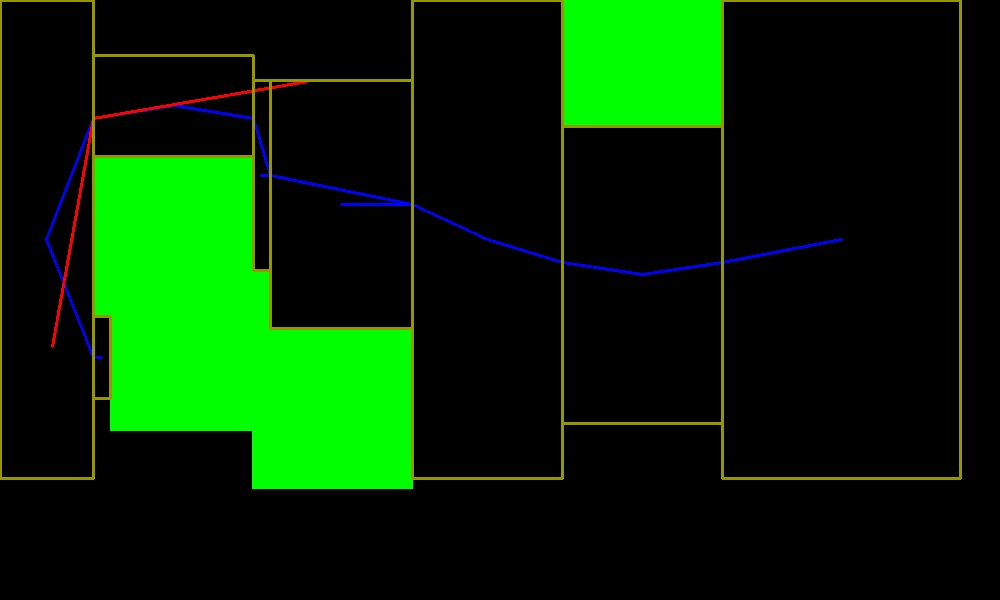
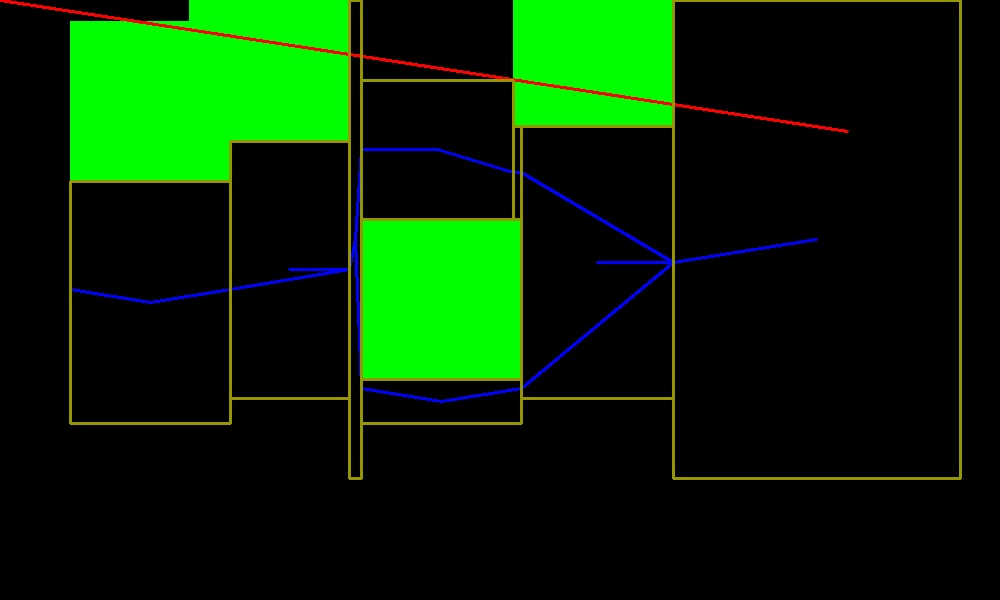
Jai vraiment mal au cul

diff --git a/Client/BaseStation/WorldVision/map.py b/Client/BaseStation/WorldVision/map.py
@@ -12,6 +12,7 @@ import copy
 class Map:
 
     SAFE_MARGIN = 130
+    SAFE_MARGIN_FOR_TREASURE = 100
 
     def __init__(self):
         self.__shapes = []
@@ -59,23 +60,24 @@ class Map:
         bestInFrontPosition = (0,0)
         bestOrientationForTreasure = 0
         for treasurePosition in self.treasures:
-            if treasurePosition[1] == self.limit.getMaxCorner()[1]:
-                newOrientationForTreasure = 90
-                newInFrontPosition = (treasurePosition[0], treasurePosition[1] - self.SAFE_MARGIN)
-            elif treasurePosition[1] == self.limit.getMinCorner()[1]:
-                newOrientationForTreasure  = 270
-                newInFrontPosition = (treasurePosition[0], treasurePosition[1] + self.SAFE_MARGIN)
-            else:
-                newOrientationForTreasure  = 180
-                newInFrontPosition = (treasurePosition[0] + self.SAFE_MARGIN, treasurePosition[1])
-                print newInFrontPosition
+            if not isinstance(myPathFinder.findPath(myMapCoorDinateAjuster.convertPoint((self.robot.center)), myMapCoorDinateAjuster.convertPoint(treasurePosition)), bool):
+                if treasurePosition[1] == self.limit.getMaxCorner()[1]:
+                    newOrientationForTreasure = 90
+                    newInFrontPosition = (treasurePosition[0], treasurePosition[1] - self.SAFE_MARGIN_FOR_TREASURE)
+                elif treasurePosition[1] == self.limit.getMinCorner()[1]:
+                    newOrientationForTreasure  = 270
+                    newInFrontPosition = (treasurePosition[0], treasurePosition[1] + self.SAFE_MARGIN_FOR_TREASURE)
+                else:
+                    newOrientationForTreasure  = 180
+                    newInFrontPosition = (treasurePosition[0] + self.SAFE_MARGIN_FOR_TREASURE, treasurePosition[1])
+                    print newInFrontPosition
 
-            myNewPath = myPathFinder.findPath(myMapCoorDinateAjuster.convertPoint((self.robot.center)), myMapCoorDinateAjuster.convertPoint(newInFrontPosition))
-            if myNewPath != False:
-                if myNewPath.totalDistance < myBestPath.totalDistance:
-                    myBestPath = myNewPath
-                    bestOrientationForTreasure = newOrientationForTreasure
-                    bestInFrontPosition = newInFrontPosition
+                myNewPath = myPathFinder.findPath(myMapCoorDinateAjuster.convertPoint((self.robot.center)), myMapCoorDinateAjuster.convertPoint(newInFrontPosition))
+                if myNewPath != False:
+                    if myNewPath.totalDistance < myBestPath.totalDistance:
+                        myBestPath = myNewPath
+                        bestOrientationForTreasure = newOrientationForTreasure
+                        bestInFrontPosition = newInFrontPosition
         return bestInFrontPosition,bestOrientationForTreasure
 
     def getPositionInFrontOfIsland(self):
@@ -179,12 +181,13 @@ class Map:
         rightAngle = 90
         yDistanceFromPurpleCircle = 25
         cameraDistanceFromBackgroundWall = self.robot.purpleCircle.findCenterOfMass()[0] - 20 - self.limit.getMinCorner()[0]
-        cameraDistanceFromLowerWall = self.limit.getMaxCorner()[1] - self.robot.purpleCircle.findCenterOfMass()[1] + 25
+        cameraDistanceFromLowerWall = self.limit.getMaxCorner()[1] - self.robot.purpleCircle.findCenterOfMass()[1]
         cameraDistanceFromUpperWall = self.robot.purpleCircle.findCenterOfMass()[1] + 105 - self.limit.getMinCorner()[1]
         for cameraAngle in relativeAngles:
 
             lowerWall = True
             angleError = abs(180 - self.robot.orientation)
+            angleError = 0
             if cameraAngle < rightAngle:
                 xDistanceOfTreasureFromCamera = math.tan(math.radians(cameraAngle - angleError))*cameraDistanceFromLowerWall
                 treasurePosition = (cameraDistanceFromBackgroundWall - xDistanceOfTreasureFromCamera, self.limit.getMaxCorner()[1])
